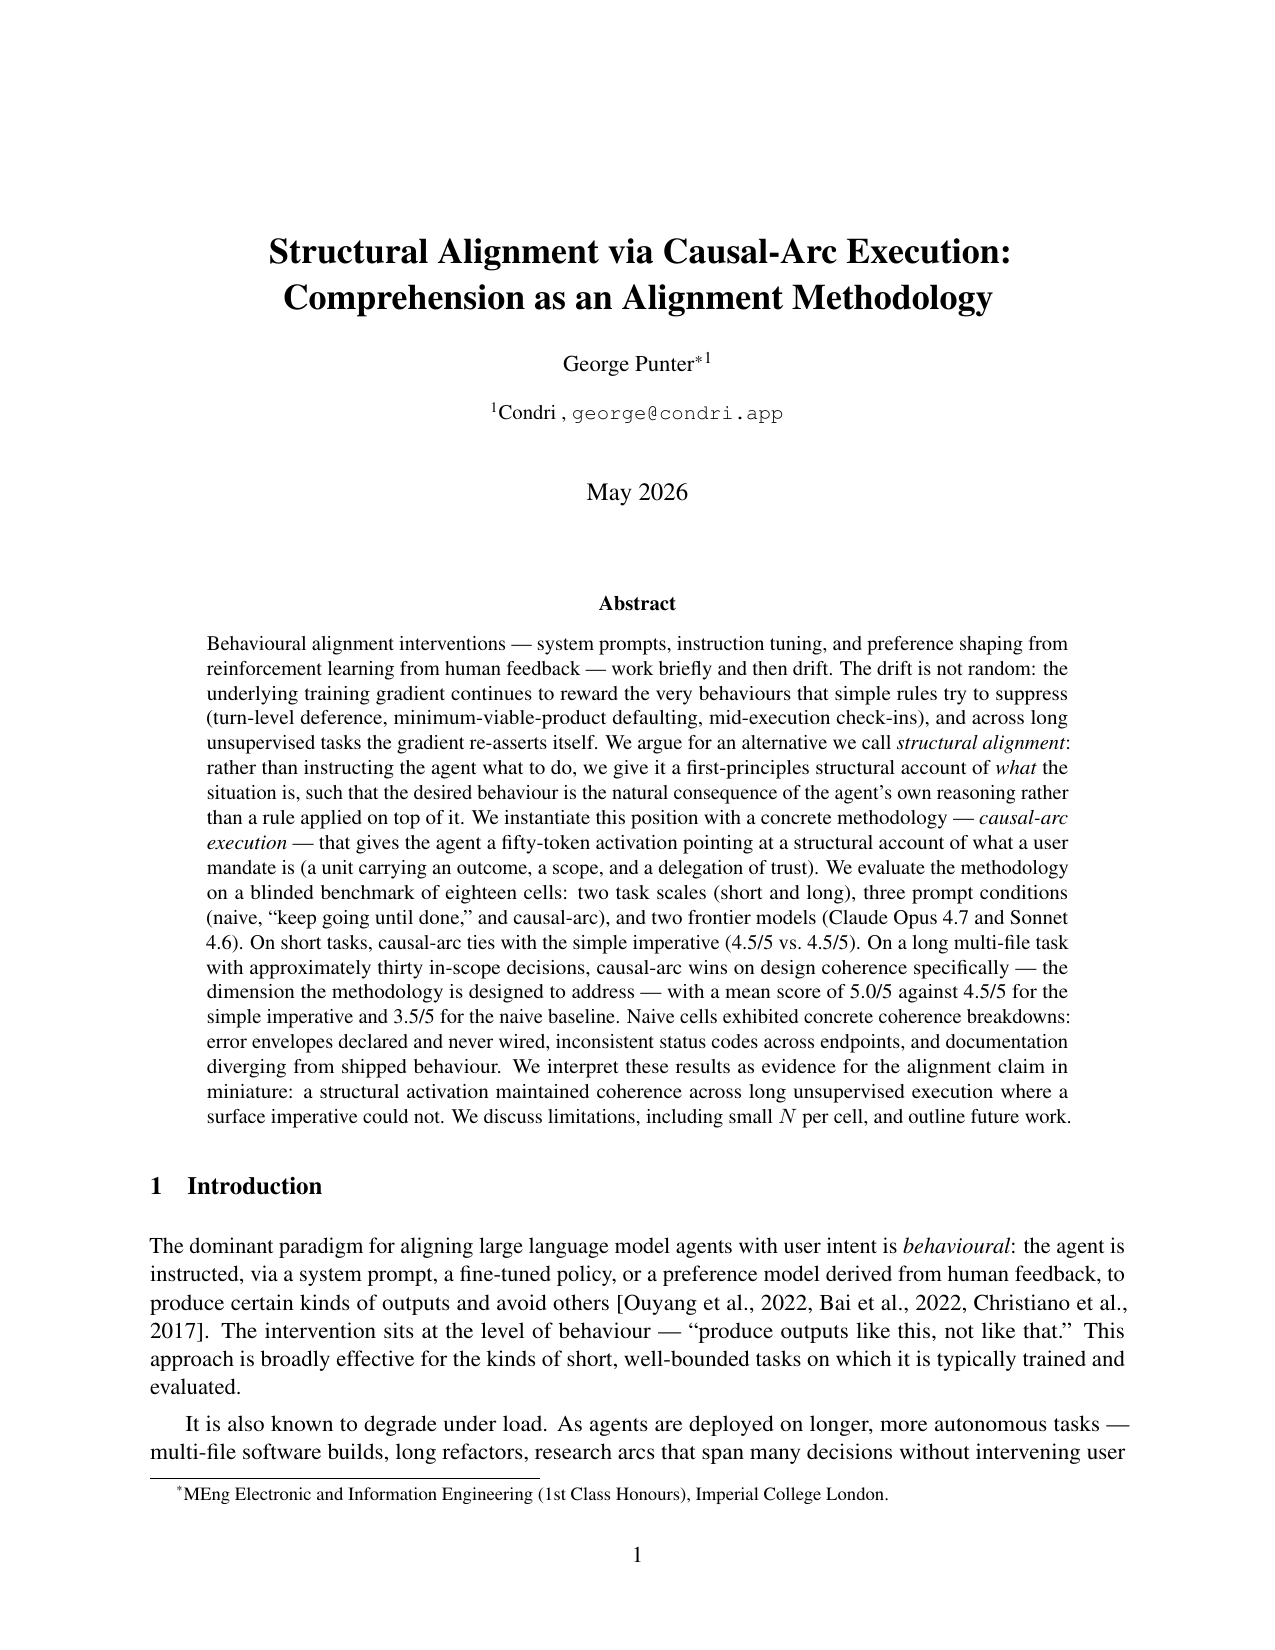
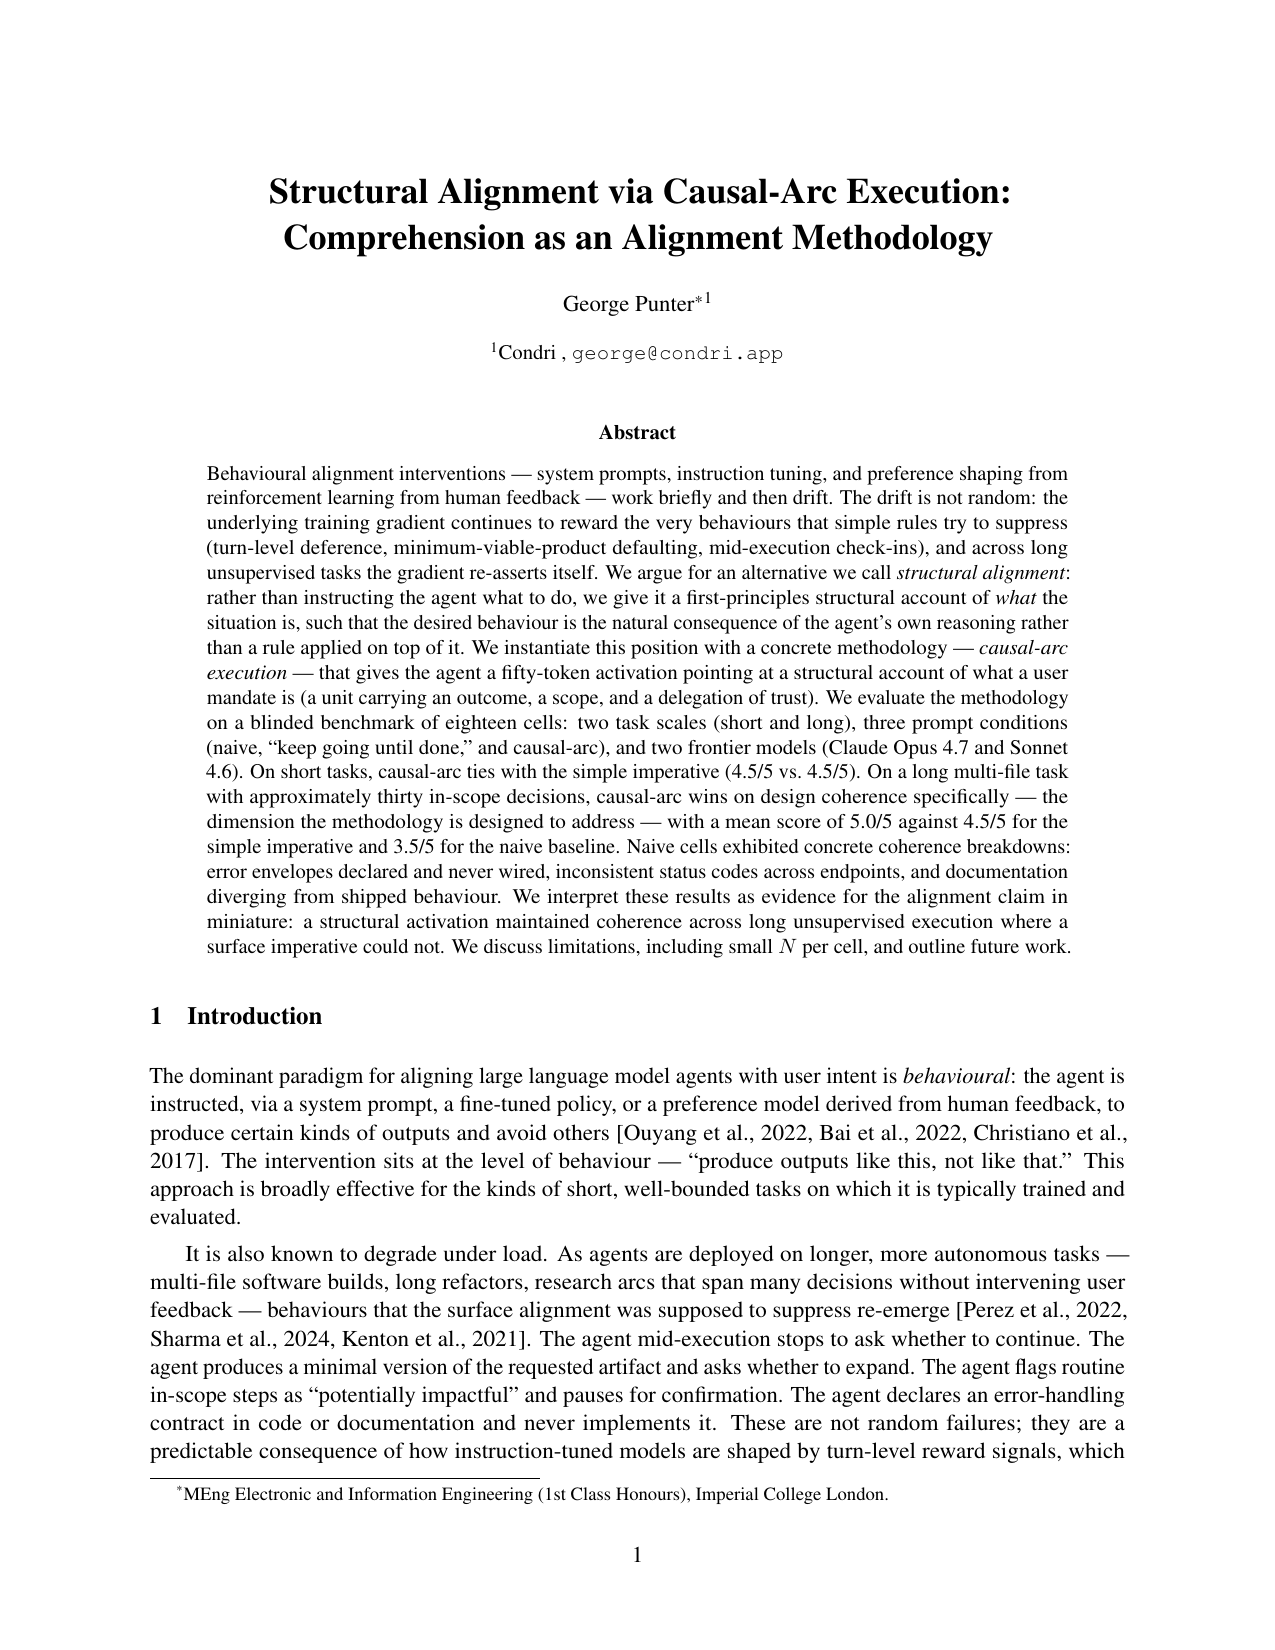
Paper: drop date, tighten top margin, pull abstract above the fold

Changed region(s): [[0.1224, 0.0927, 0.8871, 0.8964]]

diff --git a/paper/paper.tex b/paper/paper.tex
@@ -1,6 +1,6 @@
 \documentclass[11pt]{article}
 
-\usepackage[margin=1in]{geometry}
+\usepackage[margin=1in,top=0.6in]{geometry}
 \usepackage{microtype}
 \usepackage{times}
 \usepackage{amsmath,amssymb}
@@ -34,10 +34,11 @@ Comprehension as an Alignment Methodology}
 \author{George Punter\thanks{MEng Electronic and Information Engineering (1st Class Honours), Imperial College London.}}
 \affil{Condri \\ \texttt{george@condri.app}}
 
-\date{May 2026}
+\date{}
 
 \begin{document}
 \maketitle
+\vspace{-2.5em}
 
 \begin{abstract}
 \noindent
